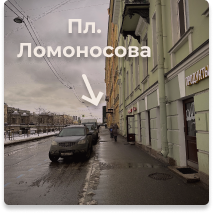
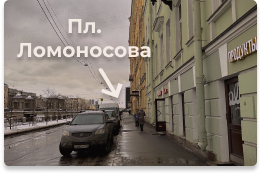
main

diff --git a/src/components/ContactPage/ContactPage.jsx b/src/components/ContactPage/ContactPage.jsx
@@ -15,7 +15,7 @@ const ContactPage = () => {
 
   const headerText = place ? "Как добраться?" : "Бронирование";
   const descriptionText = place
-    ? "Вход с набережной, между «продуктами 24» и «продуктами из Казахстана»"
+    ? "Вход с набережной, между «продуктами\u00a024» и «продуктами из Казахстана»"
     : "Чтобы забронировать столик в OLA bar вы можете связаться с администратором:";
 
   const handleViewBookPopup = (value) => {

diff --git a/src/components/Popup/Popup.css b/src/components/Popup/Popup.css
@@ -115,7 +115,8 @@
   justify-content: space-between;
 }
 .popup-photo > img {
-  width: 205px;
+  width: 205px; 
+  height: 166px;
 }
 
 .popup-telegram {
@@ -164,7 +165,8 @@
     align-items: center;
   }
   .popup-photo > img {
-    height: 166px;
+    width: 253px;
+    height: 146px;
   }
 }
 
